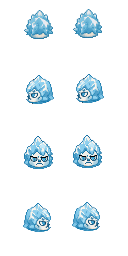
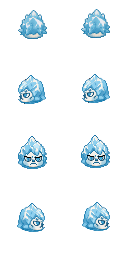
Use Cedric helmet as head skin

diff --git a/client/src/components/LpcAvatarPreview.tsx b/client/src/components/LpcAvatarPreview.tsx
@@ -172,16 +172,17 @@ function layerPaths(props: Required<Omit<LpcAvatarPreviewProps, 'scale' | 'compa
   const wings = pick(LPC_WINGS_OPTIONS, props.wings);
   const armorTint = ARMOR_TINTS[props.armorColor];
   const headwear = pick(LPC_HEADWEAR_OPTIONS, props.headwear);
+  const cedricHeadSkin = props.headwear === 'cedricHelmet';
   const headwearLayer = isFixedColorHeadwear(props.headwear) ? toLayer(headwear) : tintLayer(headwear, armorTint);
   return [
     wings?.bgSrc ? { src: wings.bgSrc } : undefined,
     { src: bodyMaleIdle },
-    toLayer(pick(LPC_HEAD_OPTIONS, props.head)),
+    cedricHeadSkin ? undefined : toLayer(pick(LPC_HEAD_OPTIONS, props.head)),
     tintLayer(pick(LPC_LEGS_ARMOR_OPTIONS, props.legsArmor), armorTint),
     tintLayer(pick(LPC_FEET_ARMOR_OPTIONS, props.feetArmor), armorTint),
     tintLayer(pick(LPC_TORSO_ARMOR_OPTIONS, props.torsoArmor), armorTint),
     tintLayer(pick(LPC_ARMS_ARMOR_OPTIONS, props.armsArmor), armorTint),
-    toLayer(pick(LPC_HAIR_OPTIONS, props.hair)),
+    cedricHeadSkin ? undefined : toLayer(pick(LPC_HAIR_OPTIONS, props.hair)),
     headwearLayer,
     toLayer(pick(LPC_WEAPON_OPTIONS, props.weapon)),
     wings?.fgSrc ? { src: wings.fgSrc } : undefined,